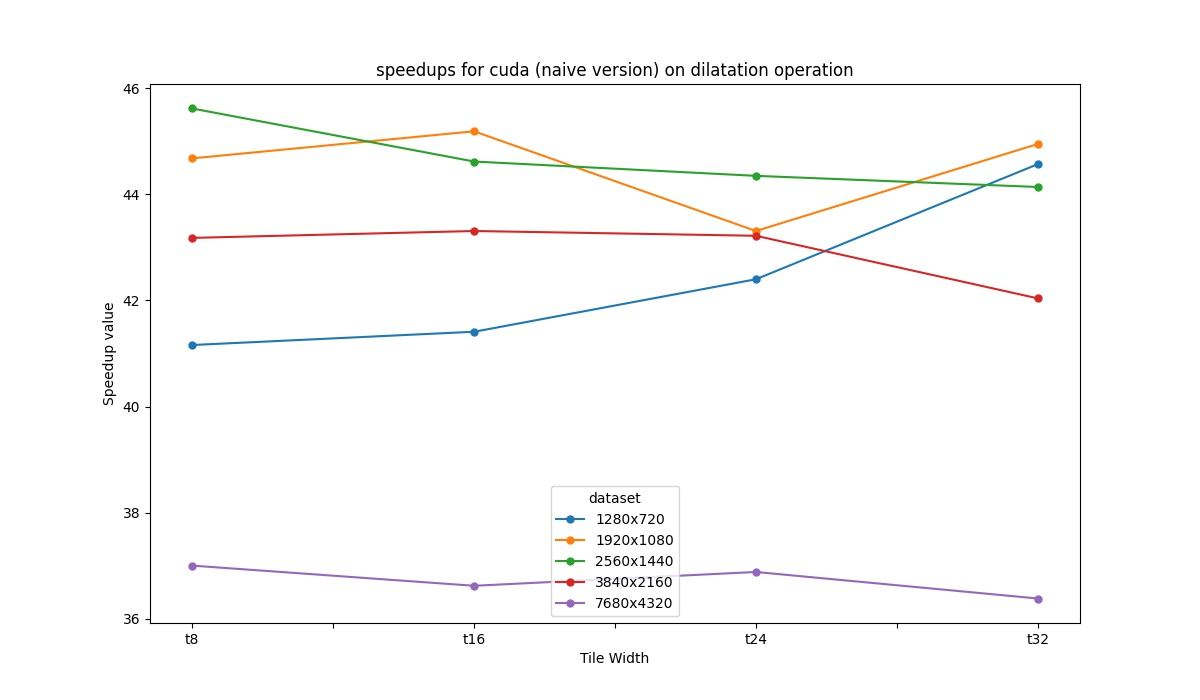
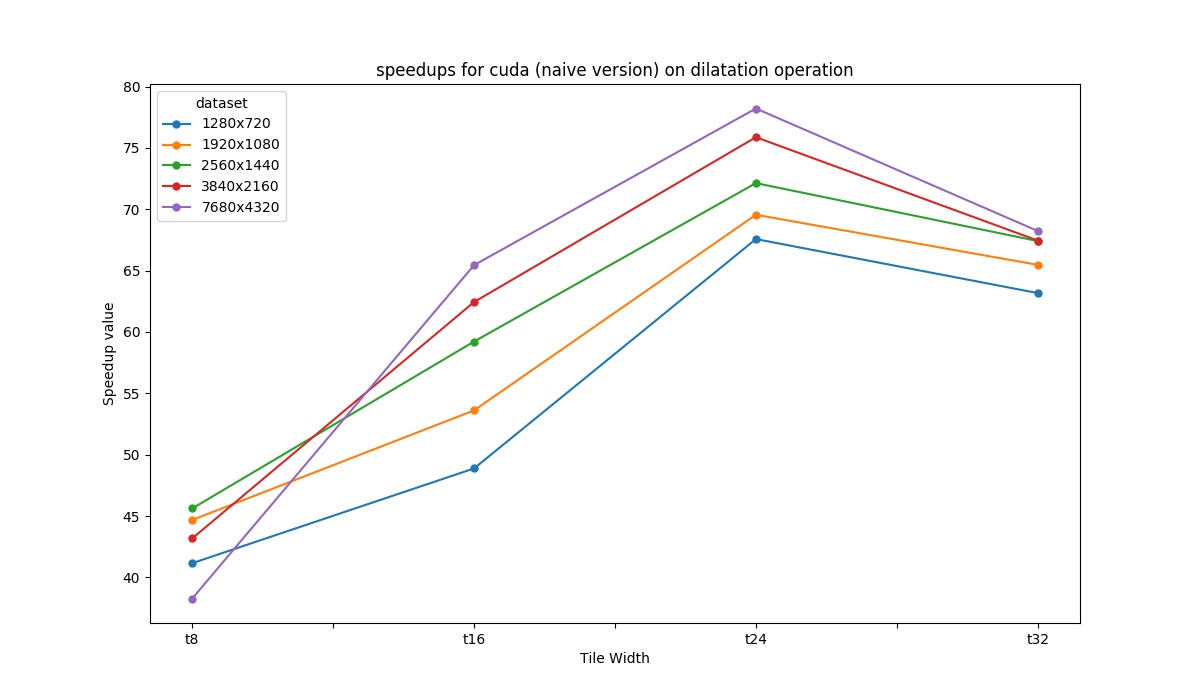
Added only dilatation operation for results and plots on CUDA

diff --git a/results_CUDA/convert_speedups_to_files_for_graphs.py b/results_CUDA/convert_speedups_to_files_for_graphs.py
@@ -6,7 +6,7 @@ src_folder = "TMP"
 
 def convert_files(fns: list):
     datas = {"naive": {}, "optimized": {}}
-    operations = ["dilatation", "erosion", "opening", "closure"]
+    operations = ["dilatation"]
     for k, v in datas.items():
         for o in operations:
             v[o] = {}
@@ -20,7 +20,7 @@ def convert_files(fns: list):
             next(reader)  # skip header
             for row in reader:
                 if len(row) == 0: continue
-                version, resolution, dilatation_mean, dilatation_max, erosion_mean, erosion_max, opening_mean, opening_max, closing_mean, closing_max = row
+                version, resolution, dilatation = row
                 for i, op in enumerate(operations):
                     if resolution not in datas[version][op]:
                         datas[version][op][resolution] = []
